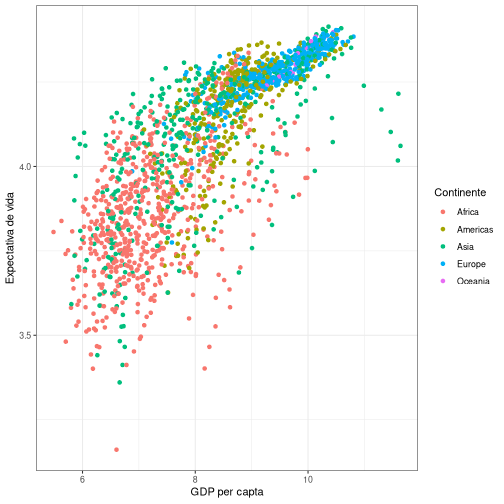
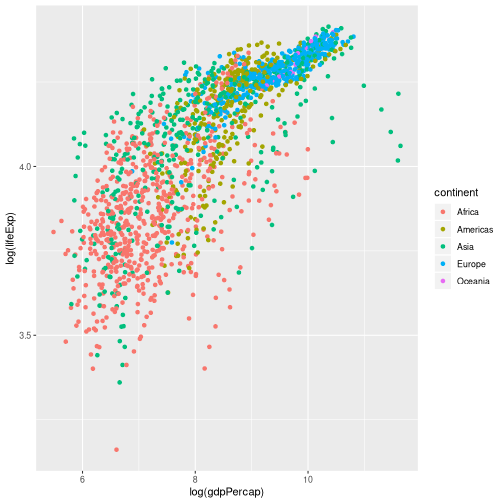
usable

Changed region(s): [[0.3571, 0.9524, 0.5357, 1.0], [0.0, 0.3869, 0.0298, 0.5655], [0.8631, 0.3571, 0.9821, 0.3869]]

diff --git a/ggplot2.md b/ggplot2.md
@@ -188,9 +188,8 @@ Facets
 
 
 ```r
-ggplot(data = iris, aes(Sepal.Length, Sepal.Width, 
-                        color = Species)) + 
-  geom_point() + facet_wrap(~Species)
+ggplot(data = iris, aes(Sepal.Length, Sepal.Width)) + 
+  geom_point(aes(color = Species)) + facet_wrap(~Species)
 ```
 
 ![plot of chunk unnamed-chunk-7](ggplot2-figure/unnamed-chunk-7-1.png)
@@ -200,9 +199,9 @@ Statistics
 
 - Elemento derivado dos dados brutos;
 - No geral são embutidos em algum geom_
-- Resumos usando estatísticas: __geom_boxplor()__
-- Funções de tendencia: __geom_smooth()__
-- Reta de regressão: __geom_smooth(method="lm")__
+- Resumos usando estatísticas: __geom_boxplot()__
+- Funções de regressão: __geom_smooth()__
+- Reta de regressão linear: __geom_smooth(method="lm")__
 
 Statistics - regressão não-linear (loess)
 ====================================================
@@ -262,7 +261,9 @@ Coordinates
 - Mudanças nos eixos e escalas (cor, forma, tamanho...)
 - Definido pelas funções scale_
 - Eixos: __scale_y_continous()__, __scale_x_discrete()__, ... 
-- Escalas de cor: scale\_color\_* (__scale_color_continuous__, scale_color_discrete__)
+- Escalas de cor: scale\_color\_* (__scale_color_continuous()__, __scale_color_discrete()__)
+- Escalas de shape: scale\_shape\_* (__scale_shape_continuous()__, __scale_shape_discrete()__)
+
 
 
 Theme
@@ -281,6 +282,7 @@ Theme
 
 ggplot - objetos graficos
 =======================================================
+left: 60%
 
 - No ggplot os objetos gráficos podem ser manipulados ou armazenados, diferente dos plots padrão onde os gráficos são "efeitos colaterais"
 
@@ -289,9 +291,18 @@ ggplot - objetos graficos
 
 
 ```r
-meu_grafico = ggplot(gapminder, aes(x = log(gdpPercap), 
-                      y = log(lifeExp))) + geom_point(aes(color = continent))
+library(gapminder)
+meu_grafico = ggplot(gapminder, aes(x = log(gdpPercap), y = log(lifeExp))) + geom_point(aes(color = continent))
 ```
+
+*** 
+
+
+```r
+meu_grafico
+```
+
+![plot of chunk unnamed-chunk-13](ggplot2-figure/unnamed-chunk-13-1.png)
 
 ggplot - objetos graficos
 =======================================================
@@ -305,11 +316,7 @@ meu_grafico = meu_grafico +
     labs(x = "GDP per capta", 
          y = "Expectativa de vida")
 
-meu_grafico = meu_grafico + 
-  theme(text = element_text(size = 30), 
-    legend.title = 
-        element_text(face = "italic")) +
-  scale_color_discrete(name = "Continente")
+meu_grafico = meu_grafico + theme(text = element_text(size = 30), legend.title = element_text(face = "italic")) + scale_color_discrete(name = "Continente")
 ```
 
 ***
@@ -319,7 +326,7 @@ meu_grafico = meu_grafico +
 meu_grafico
 ```
 
-![plot of chunk unnamed-chunk-14](ggplot2-figure/unnamed-chunk-14-1.png)
+![plot of chunk unnamed-chunk-15](ggplot2-figure/unnamed-chunk-15-1.png)
 
 ggplot - temas
 =======================================================
@@ -329,7 +336,8 @@ Temas prontos!
 
 
 ```r
-meu_grafico = meu_grafico + theme_bw()
+library(cowplot)
+meu_grafico = meu_grafico + theme_cowplot()
 ```
 
 ***
@@ -339,7 +347,7 @@ meu_grafico = meu_grafico + theme_bw()
 meu_grafico
 ```
 
-![plot of chunk unnamed-chunk-16](ggplot2-figure/unnamed-chunk-16-1.png)
+![plot of chunk unnamed-chunk-17](ggplot2-figure/unnamed-chunk-17-1.png)
 
 ggplot - temas
 =======================================================
@@ -364,7 +372,7 @@ meu_grafico = ggplot(gapminder,
 meu_grafico
 ```
 
-![plot of chunk unnamed-chunk-18](ggplot2-figure/unnamed-chunk-18-1.png)
+![plot of chunk unnamed-chunk-19](ggplot2-figure/unnamed-chunk-19-1.png)
 
 ggplot - outros tipos de gráficos
 =======================================================
